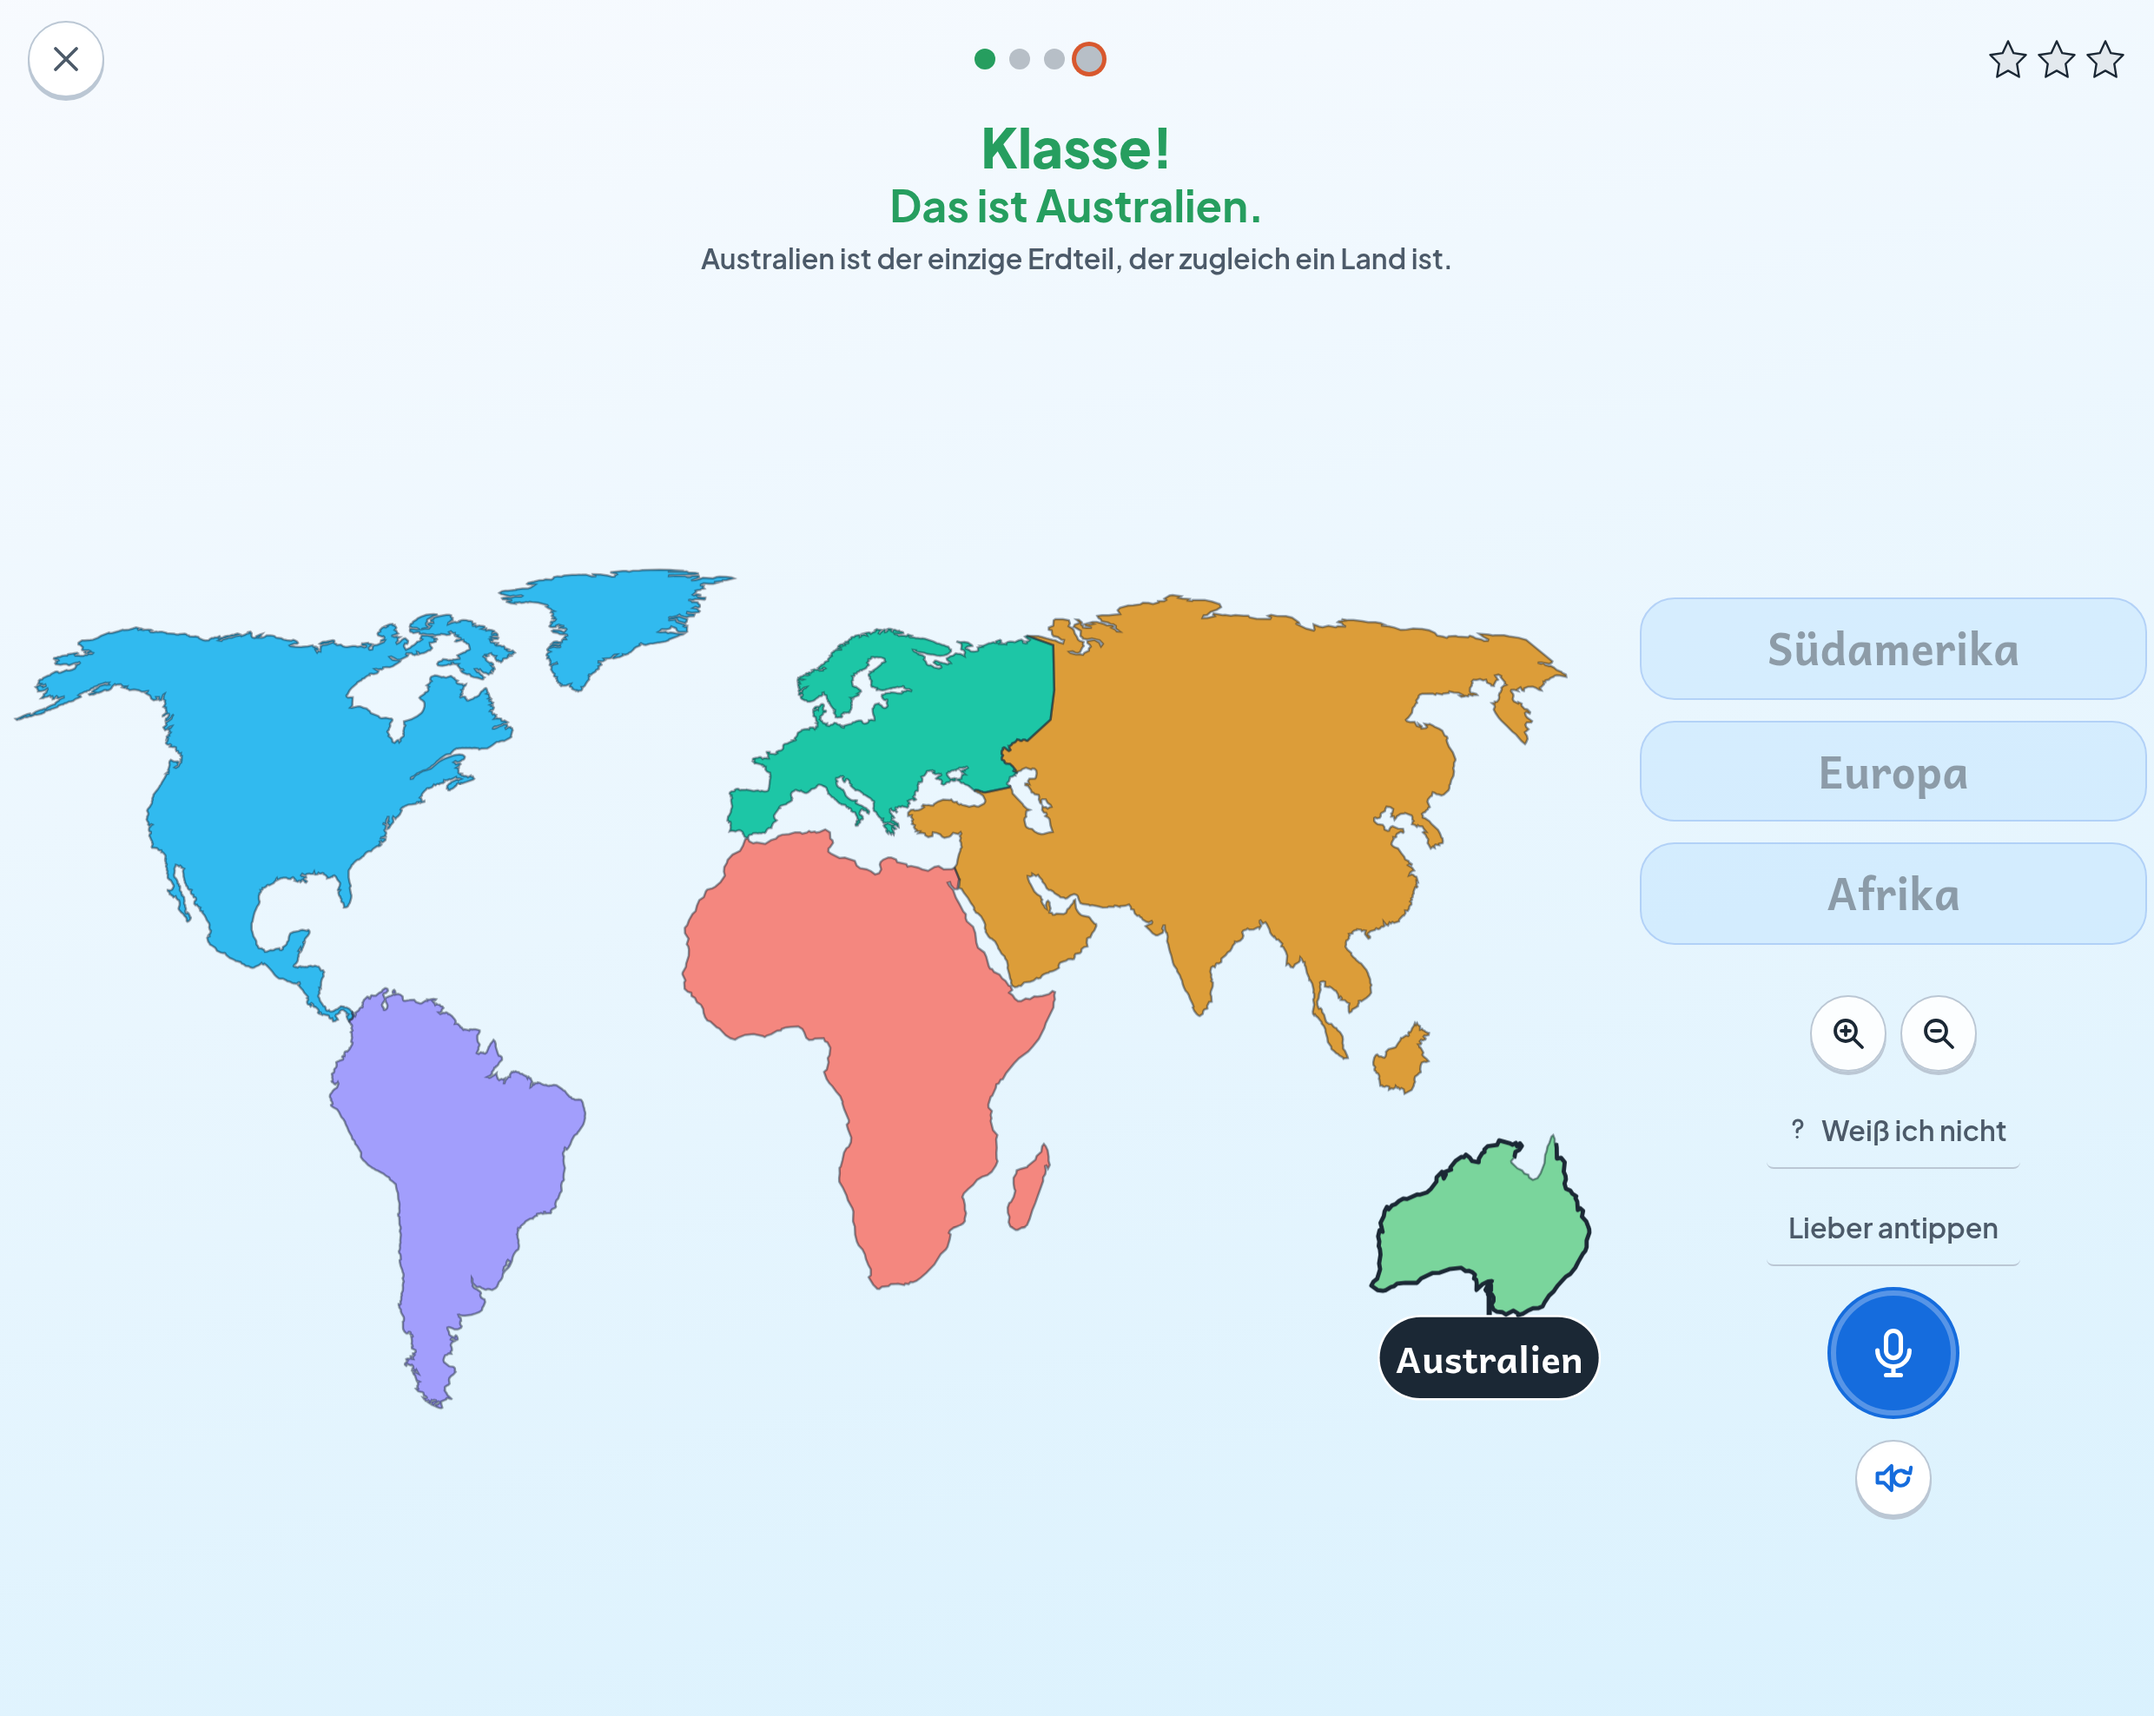
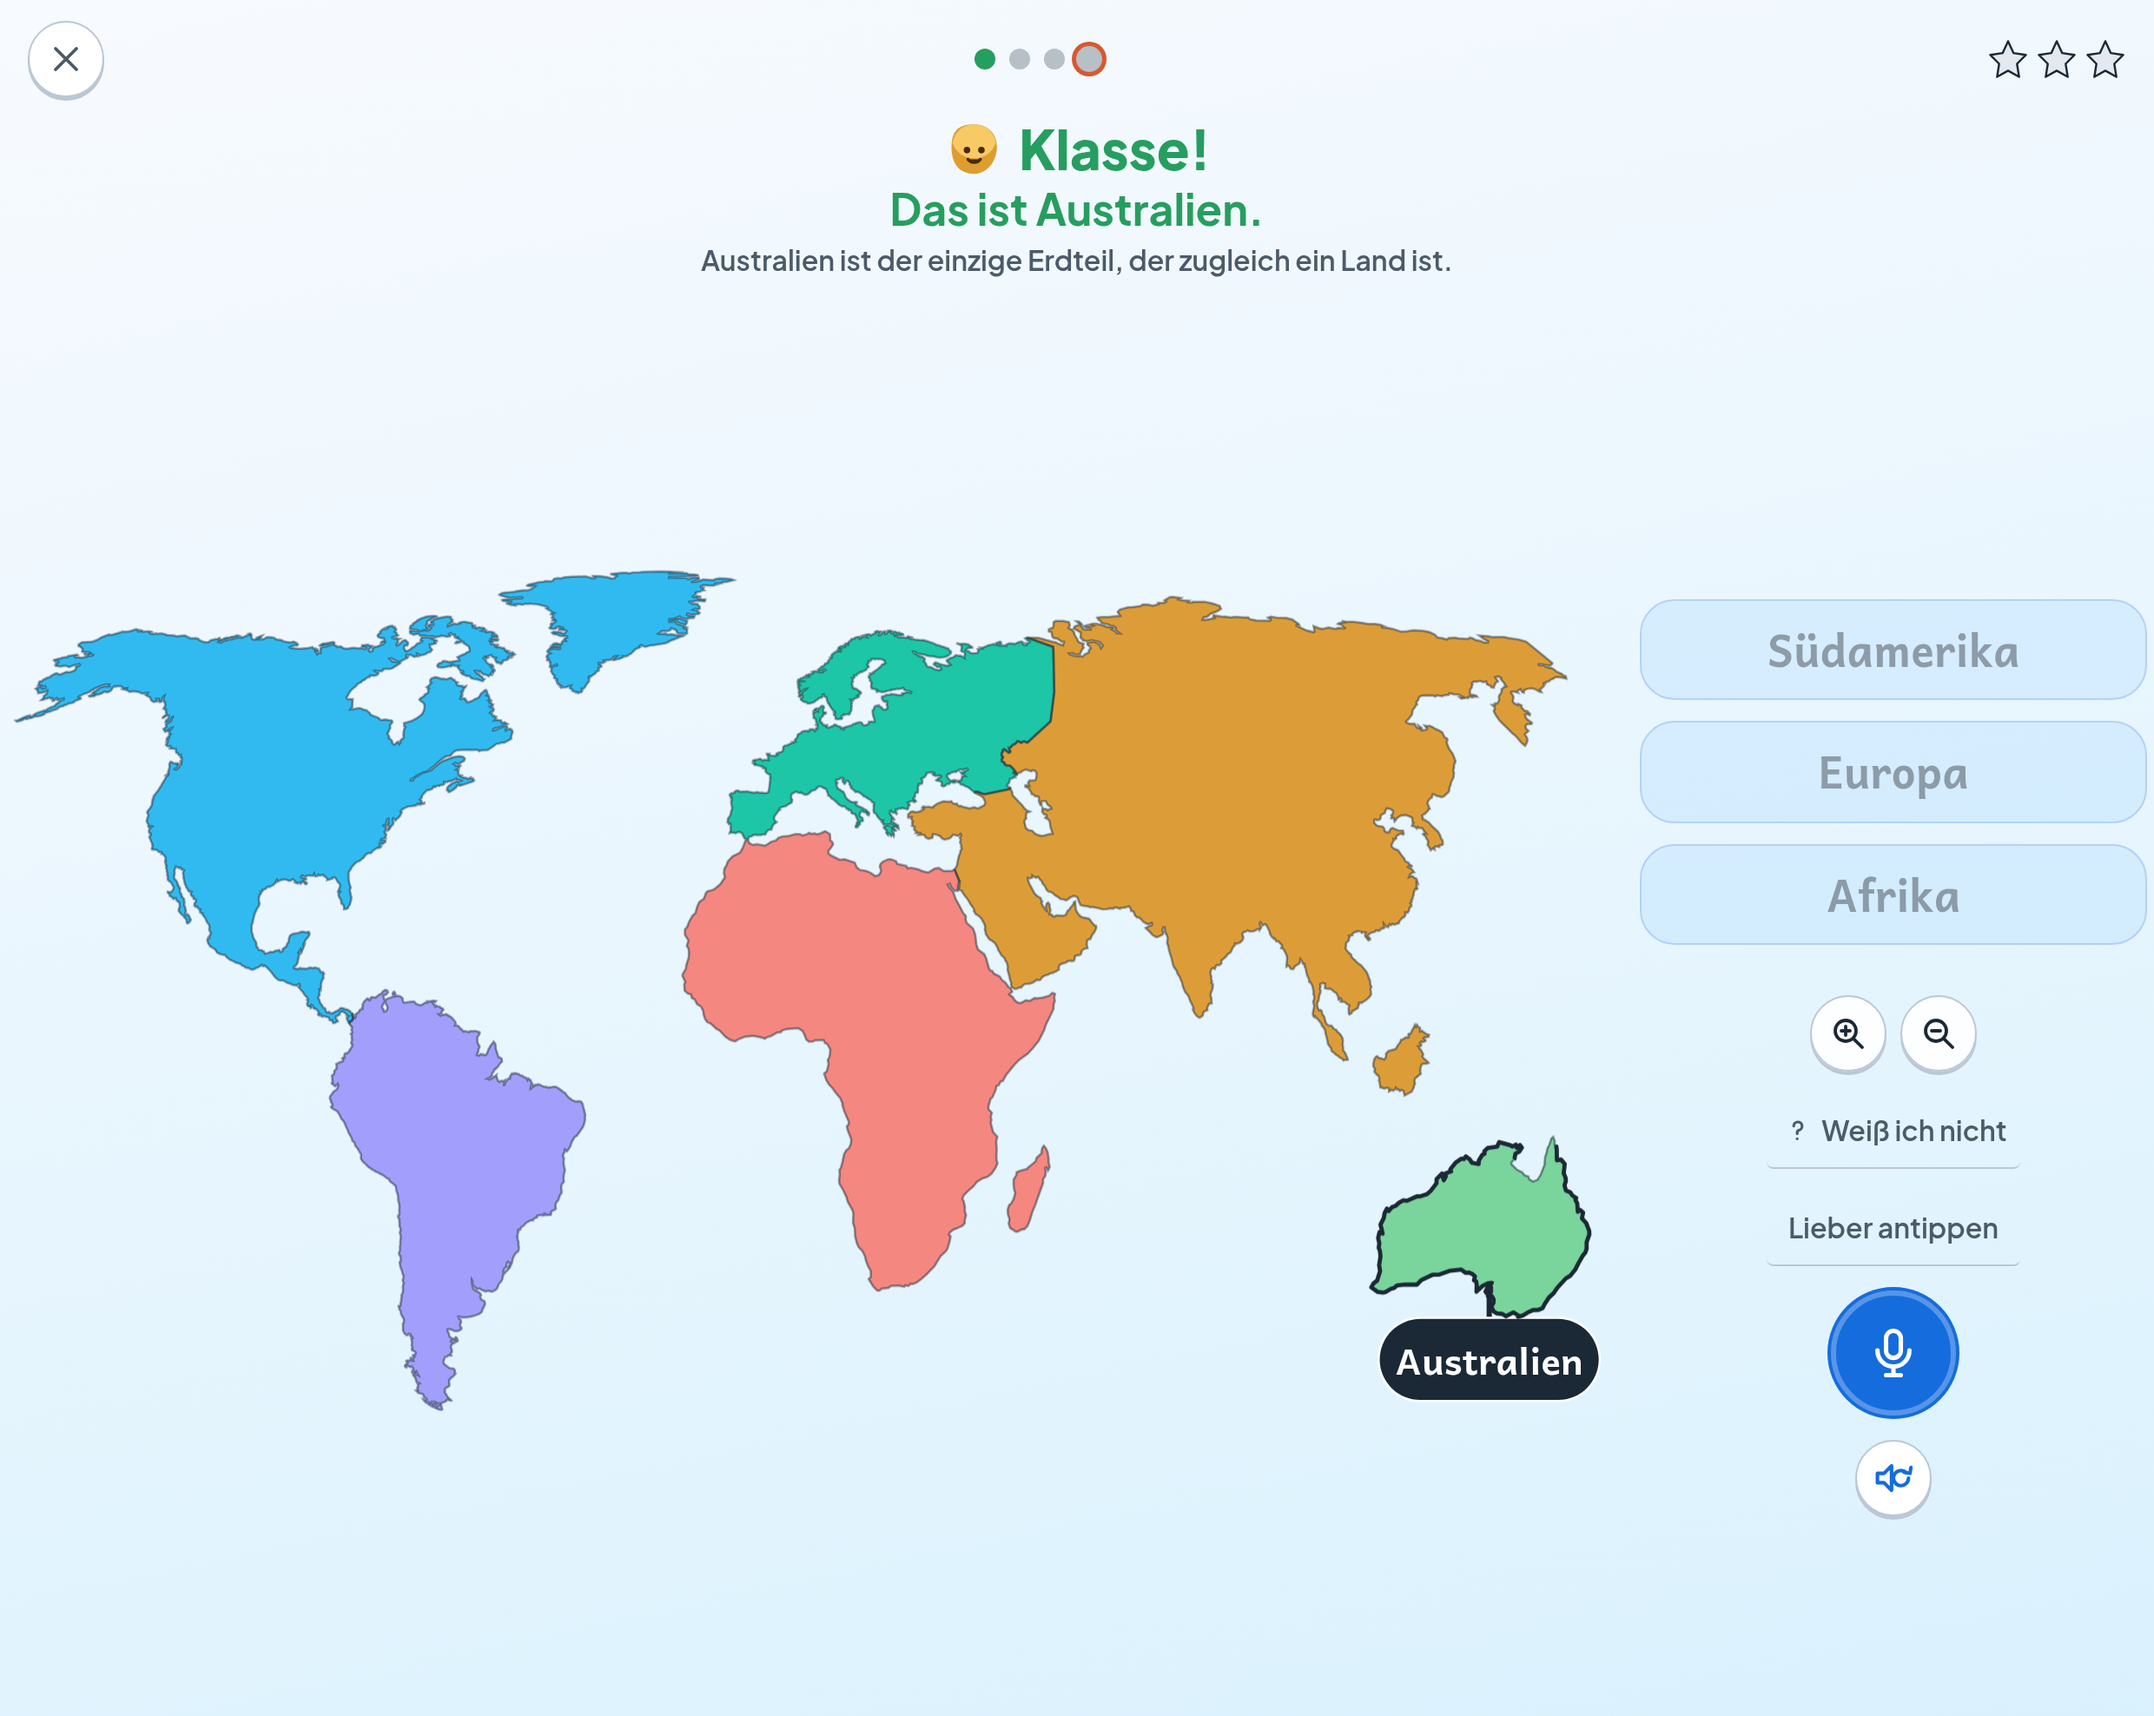
N9: die Figur kostet die Karte nichts mehr - gemessen statt geschaetzt
Das Tor hat gefunden, was der Blick nicht sehen konnte: die Figur im Lob
liess die Karte darunter um 40 Punkte springen. Genau in dem Augenblick,
in dem das Kind auf die Form schaut, die es eben getroffen hat (Q45,
Deckel 30). Auf dem Bildschirmfoto sah die Lobzeile gut aus; die Karte
war einfach kleiner.

Drei Anlaeufe, und der Weg dahin steht jetzt im Quelltext:

  1. INLINE, 44 Punkte. `.frage .jubel` ist ein Block, die Figur davor
     bekam eine eigene Zeile. 40 Punkte (92/273 auf 132/233).
  2. ABSOLUT am linken Rand. Die Karte stand still - und das Vorbild
     zeigte, warum das trotzdem falsch war: die Figur klebte allein in
     der Ecke, einen halben Bildschirm von dem Satz entfernt, zu dem sie
     gehoert.
  3. IN der Zeile, 32 Punkte fest. 54 Punkte, schlimmer als (1). Der
     Grund stand siebenhundert Zeilen weiter unten: im kurzen Querformat
     steht der Jubel in EINER Zeile und damit `inline` - `--s1`, rund 29
     Punkte hoch. Dieselbe Regel zweimal aufgeschrieben, gepflegt wurde
     die obere (Regel 6).

Jetzt kommt die Groesse aus der ZEILE: 1,15 em der Schrift, in der das
Lob gerade steht. Kurzes Querformat rund 29 Punkte, Schreibtisch rund 36
- und die Lobzeile waechst dadurch um 1 bzw. 2 Punkte.

Dazu ein Werkzeug, damit die naechste Zeile nicht wieder geraten wird:
`npm run lobmass` misst Fragefeld und Kartenhuelle vor dem Lob, mit
Figur und ohne, im angegebenen Format. Blind nachjustieren heisst hier,
durch ein Schluesselloch zu schauen.
[…]

diff --git a/prototyp/vorlage.html b/prototyp/vorlage.html
@@ -2530,9 +2530,43 @@ body[data-zieht] .lupenknoepfe{pointer-events:none}
 /* DIE FIGUR (N9) — im Stil der Wortbilder: flaechig, zwei Toene, keine
    Umrisslinien, Licht von oben links. `k1` ist die belichtete Haelfte,
    `k2` die Schattenseite, `a` sind Augen und Mund.
-   Sie steht INLINE im Lobsatz und nicht daneben: so nimmt sie keine
-   eigene Zeile und kann keine Bedienflaeche verdecken. */
-.figur{display:inline-block;vertical-align:-0.35em;margin-right:var(--r2)}
+   Sie steht IN der Lobzeile - neben dem Wort, nicht darueber und nicht
+   am Bildschirmrand.
+   Drei Anlaeufe hat das gekostet, und alle drei standen im selben
+   Konflikt: die Zeile darf nicht hoeher werden. Gemessen wird das an der
+   gezeichneten Karte, die beim Lob nicht ruecken darf (Q45, Deckel 30
+   Punkte) - der Rauchtest meldet es, der Blick nicht: auf dem Bild sah
+   die Zeile jedes Mal gut aus, und die Karte darunter war einfach
+   kleiner.
+
+     1. INLINE, 44 Punkte. `.frage .jubel` ist ein Block, die Figur davor
+        bekam eine eigene Zeile. 40 Punkte Sprung (92/273 auf 132/233).
+     2. ABSOLUT am linken Rand des Fragefelds. Die Karte stand still, und
+        das Vorbild zeigte, warum das trotzdem falsch war: die Figur
+        klebte allein in der Ecke, einen halben Bildschirm von dem Satz
+        entfernt, zu dem sie gehoert. Ein Begleiter, der nicht neben dem
+        steht, was er begleitet, ist keiner.
+     3. IN der Zeile, 32 Punkte fest. 54 Punkte Sprung - schlimmer als
+        (1). Der Grund stand siebenhundert Zeilen weiter unten: im kurzen
+        Querformat steht der Jubel in EINER Zeile und damit `inline`
+        (Q45), also in `--s1` und rund 29 Punkten. Eine 32 Punkte hohe
+        Figur passt da nicht hinein und bricht um. Dieselbe Regel stand
+        zweimal, gepflegt wurde die obere (Regel 6).
+
+   Jetzt kommt die Groesse aus der ZEILE und nicht aus einer Zahl: 1,15 em
+   der Schrift, in der das Lob gerade steht. Im kurzen Querformat sind das
+   rund 29 Punkte, auf dem Schreibtisch rund 36 - und die Lobzeile waechst
+   dadurch um 1 beziehungsweise 2 Punkte. Gemessen mit
+   `tools/lobmass.mjs`, in beiden Formaten, mit und ohne Figur. */
+.figur{display:inline-block;vertical-align:middle;flex:none;margin:0}
+/* Die Groesse kommt aus der ZEILE, nicht aus einer Zahl: 1,15 em der
+   Schrift, in der das Lob steht. Im kurzen Querformat steht der Jubel
+   in `--s1` und in einer Zeile, auf dem Schreibtisch in `--s2` und in
+   zweien - die Figur waechst und schrumpft mit. Eine feste Zahl stuende
+   damit zweimal da, einmal hier und einmal in der Zeile, und sie
+   veraltet dann an der Stelle, die niemand pflegt (Regel 6): der erste
+   Anlauf war 32 gegen eine 29 Punkte hohe Zeile. */
+.frage .figur{width:1.15em;height:1.15em}
 .figur .k1{fill:var(--figur-hell)}
 .figur .k2{fill:var(--figur-dunkel)}
 .figur .a{fill:var(--figur-zug);color:var(--figur-zug)}
@@ -2552,7 +2586,12 @@ body[data-zieht] .lupenknoepfe{pointer-events:none}
 .frage .richtigText{color:var(--gut)}
 /* Das Lob traegt die Zeile, der Name die Sache. Ein Kind liest das erste
    Wort und weiss Bescheid, bevor es den Satz zu Ende gelesen hat. */
-.frage .jubel{display:block;font-size:var(--s2);font-weight:800;line-height:1.1}
+/* `flex` und nicht `block`: die Figur steht als Geschwister NEBEN dem
+   Wort (N9). Als Block bekaeme sie eine eigene Zeile, und die kostet auf
+   der Karte 40 Punkte - die Rechnung steht oben bei `.figur`. */
+.frage .jubel{display:flex;align-items:center;justify-content:center;gap:var(--r2);
+  font-size:var(--s2);font-weight:800;line-height:1.1}
+.frage .fastText{display:flex;align-items:center;justify-content:center;gap:var(--r2)}
 /* Der Aufkleber bekommt einen eigenen Augenblick - er ist das einzige,
    was ueber diese Aufgabe hinaus bleibt. */
 /* Seit Q28 steht hier der Aufkleber SELBST, mit dem Wort darunter. Der

diff --git a/prototyp/spiel.js b/prototyp/spiel.js
@@ -4226,11 +4226,14 @@ function lobsatz(s, sache, fastText, spruch, nebenbei, neuerAufkleber){
   /* Die Figur nur bei den Kinderprofilen - derselbe Schalter wie beim
      Jubel. Ein Begleiter, der Stephan beim Nachtragen zusieht, waere
      Zierde; bei Fiona ist er der Grund, es noch einmal zu machen. */
-  const wer = ton().feier ? figur(fastText ? 'staunt' : 'freut') : '';
+  /* 32 Punkte, nicht 44: so hoch wie die Lobzeile selbst. Groesser
+     waere die Figur der Grund, aus dem die Karte darunter springt -
+     gemessen, nicht befuerchtet. */
+  const wer = ton().feier ? figur(fastText ? 'staunt' : 'freut', 32) : '';
   frage.innerHTML = fastText
     ? `<span class="fastText">${wer}${fastText}</span>`
-    : `<span class="richtigText${ton().feier ? ' feier' : ''}">${wer}<b class="jubel">${
-        spruch || 'Richtig!'}</b> ${sache}</span>`
+    : `<span class="richtigText${ton().feier ? ' feier' : ''}"><b class="jubel">${
+        wer}${spruch || 'Richtig!'}</b> ${sache}</span>`
       + (neuerAufkleber ? `<span class="neuerkleber">${letzterKleber()}<b>${
           /* Auch GESCHRIEBEN im Ton des Profils: derselbe Satz, dieselbe
              Quelle. Ein Ausrufezeichen auf dem Schirm und keines in der

diff --git a/docs/Lernkiste-NACHTPLAN.md b/docs/Lernkiste-NACHTPLAN.md
@@ -149,6 +149,25 @@ bei richtig, staunt bei falsch, feiert am Ende. Vier Haltungen, mehr nicht.
 **Abnahme:** Die Figur wird gezeichnet und gegen den Vorrat auf
 Verwechselbarkeit geprüft; sie darf keine Berührungsfläche verdecken.
 
+**Gebaut (v530).** Drei Stimmungen statt vier — `freut`, `staunt`,
+`feiert` —, weil die vierte („schaut zu") keinen Augenblick hat, an dem
+sie erscheint. Eine Zeichnung, drei Zustände: sie unterscheiden sich in
+Mund, Augengröße und Braue, nicht im Bild. Sie steht im Lobsatz und groß
+auf dem Endbildschirm, und **nur bei den Kinderprofilen** — derselbe
+Schalter wie beim Jubel.
+
+**Was der Blick nicht gesehen hat.** Inline gebaut kostete sie auf der
+Karte **40 Punkte Sprung beim Lob**: `.frage .jubel` ist ein Block, die
+Figur davor bekam eine eigene Zeile, und die gezeichnete Fläche wanderte
+von 92/273 auf 132/233 — genau in dem Augenblick, in dem das Kind auf die
+Form schaut, die es eben getroffen hat. Auf dem Bildschirmfoto sah die
+Zeile gut aus; gemeldet hat es der Rauchtest (Q45, Deckel 30). Jetzt
+steht die Figur absolut im Fragefeld und nicht in seinem Fluss: die
+Lobzeile ist Punkt für Punkt so hoch wie die Frage davor.
+
+**Zwei stehende Gegenproben:** die Figur kommt nie · die Figur kommt zu
+allen.
+
 ### N10 · Der Moment — die Belohnung hört auf, ein Zeugnis zu sein
 *Befund G4 · G14*
 

diff --git a/CLAUDE.md b/CLAUDE.md
@@ -239,6 +239,14 @@ npm run ohneschrift  AUDIT A: geht Fionas Weg auf dem Zielgerät ab und
                    Bildschirm aus, wenn man ihn nicht lesen kann. Kein
                    Tor, ein Blickwerkzeug — `--selbst` prüft nur den
                    Messer selbst.
+npm run lobmass    was eine Zeile im Lob KOSTET: misst die Höhe des
+                   Fragefelds und die Hülle der gezeichneten Karte, vor
+                   dem Lob, mit Figur und ohne — im selben Lauf, im
+                   angegebenen Format (`-- '{"width":1400,"height":900}'`).
+                   Kein Tor. Es beantwortet die eine Frage, an der N9
+                   dreimal gescheitert ist: rückt die Karte, und um
+                   wieviel? Blind nachjustieren heißt hier, durch ein
+                   Schlüsselloch zu schauen.
 ```
 
 Kette: `rhythmus` → `inhalt` · `saetze` · `topologie` · `beruehrung` · `marken` · `abzeichen` ·

diff --git a/docs/Lernkiste-AUDIT-GRAFIK.md b/docs/Lernkiste-AUDIT-GRAFIK.md
@@ -67,11 +67,16 @@ Flächen sind Rechtecke mit 1 px Rand. Kein Schatten, keine Erhebung, kein
 Lichteinfall, keine Ebene über einer anderen. Alles liegt auf demselben
 Blatt. Ein Knopf, der sich nicht **hebt**, lädt nicht zum Drücken ein.
 
-### G3 · Es ist niemand da
+### G3 · Es ist niemand da — **erledigt in N9 (v530)**
 
 Kein Gesicht, keine Figur, kein Begleiter. Für ein sechsjähriges Kind ist
 das der größte Einzelmangel der ganzen Oberfläche: es gibt niemanden, der
 sich mitfreut, niemanden, dem man etwas zeigt.
+
+Seit N9 gibt es ihn: drei Stimmungen aus einer Zeichnung, im Lobsatz und
+groß auf dem Endbildschirm, nur bei den Kinderprofilen. Zwei stehende
+Gegenproben halten beide Verfallsarten fest — sie kommt nie, sie kommt zu
+allen.
 
 ### G4 · Die Belohnung ist ein Bericht
 
